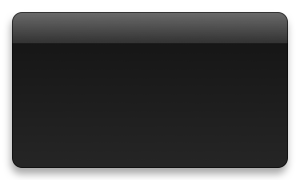
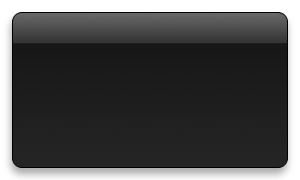
Minor comment updates and UI outline fix

Changed region(s): [[0.06, 0.0556, 0.96, 0.0833], [0.93, 0.1111, 0.96, 0.2222], [0.03, 0.1111, 0.06, 0.2222]]

diff --git a/Iconifer.dcproj/project/widget.wdgt/main.html b/Iconifer.dcproj/project/widget.wdgt/main.html
@@ -13,7 +13,7 @@
 </head>
 <body onload="load();" apple-part="com.apple.Dashcode.part.StackLayout">
     <div id="front">
-        <img id="frontImg" src="Parts/Images/front.png" alt="" apple-locked="true" apple-part="com.apple.Dashcode.part.frontimage" apple-style="image-theme: 0; image-shape: 3; image-opacity: 1.00; image-top-color: 0.150000006,0.150000006,0.150000006,1; image-bottom-color: 0.6,0.6,0.6,1; image-radius: 10,10,10,10; image-border: 1; image-border-color: 0,0,0,0.5; image-border-width: 1; shine-on: 1; shine-strength: 0.10; shine-alpha-level: 1.00; shine-height: 0.80; glass-arc-height: 0.00; embossed-on: 0; embossed-depth: 2; embossed-shadow: 0.5; embossed-highlight: 50; shadow-include-shadow: 1; shadow-offset: -1.00,-6.00; shadow-color: 0,0,0,0.3333;">
+        <img id="frontImg" src="Parts/Images/front.png" alt="" apple-locked="true" apple-part="com.apple.Dashcode.part.frontimage" apple-style="image-theme: 0; image-shape: 3; image-opacity: 1.00; image-top-color: 0.150000006,0.150000006,0.150000006,1; image-bottom-color: 0.6,0.6,0.6,1; image-radius: 10,10,10,10; image-border: 1; image-border-color: 0,0,0,1; image-border-width: 1; shine-on: 1; shine-strength: 0.10; shine-alpha-level: 1.00; shine-height: 0.80; glass-arc-height: 0.00; embossed-on: 0; embossed-depth: 2; embossed-shadow: 0.5; embossed-highlight: 50; shadow-include-shadow: 1; shadow-offset: -1.00,-6.00; shadow-color: 0,0,0,0.3333;">
         <div apple-part="com.apple.Dashcode.part.StackLayout" id="stack"><div id="main" apple-part-locked="true">
                 <div apple-part="com.apple.Dashcode.part.box" id="input" ondrop="dragDrop(event)" ondragover="dragOver(event)" ondragenter="dragEnter(event)">
                     <div apple-part="com.apple.Dashcode.part.text" class="apple-text apple-no-children" apple-default-image-visibility="hidden" apple-text-overflow="ellipsis" id="drop"></div>

diff --git a/Iconifer.dcproj/project/widget.wdgt/main.js b/Iconifer.dcproj/project/widget.wdgt/main.js
@@ -195,25 +195,21 @@ function updateType(event) {
 
 function updateFeedback(event) {
 	switch (prefType) {
-		case 0:
+		case 0:	//	iOS (app store + devices)
 			document.getElementById("feedback").innerHTML = "PNG files: 512, 114, 72, 57";
 			break;
-		case 1:
+		case 1:	//	Mac (ICNS format)
 			document.getElementById("feedback").innerHTML = "ICNS file: 512, 256, 128, 32, 16";
 			break;
-		case 2:
+		case 2:	//	Windows (ICO format)
 			document.getElementById("feedback").innerHTML = "ICO file: 256, 48, 32, 24, 16";
 			break;
-		case 3:
+		case 3:	//	Desktop (Mac + Windows)
 			document.getElementById("feedback").innerHTML = "ICNS, ICO";
 			break;
-		default:
+		default://	All the icons
 			document.getElementById("feedback").innerHTML = "PNG, ICNS, ICO";
 		}
-//	iOS (app store + devices)
-//	Mac (ICNS format)
-//	Windows (ICO format)
-//	Desktop (Mac + Windows)
 }
 
 function updateLoc(event) {

diff --git a/Iconifer.wdgt/main.js b/Iconifer.wdgt/main.js
@@ -195,25 +195,21 @@ function updateType(event) {
 
 function updateFeedback(event) {
 	switch (prefType) {
-		case 0:
+		case 0:	//	iOS (app store + devices)
 			document.getElementById("feedback").innerHTML = "PNG files: 512, 114, 72, 57";
 			break;
-		case 1:
+		case 1:	//	Mac (ICNS format)
 			document.getElementById("feedback").innerHTML = "ICNS file: 512, 256, 128, 32, 16";
 			break;
-		case 2:
+		case 2:	//	Windows (ICO format)
 			document.getElementById("feedback").innerHTML = "ICO file: 256, 48, 32, 24, 16";
 			break;
-		case 3:
+		case 3:	//	Desktop (Mac + Windows)
 			document.getElementById("feedback").innerHTML = "ICNS, ICO";
 			break;
-		default:
+		default://	All the icons
 			document.getElementById("feedback").innerHTML = "PNG, ICNS, ICO";
 		}
-//	iOS (app store + devices)
-//	Mac (ICNS format)
-//	Windows (ICO format)
-//	Desktop (Mac + Windows)
 }
 
 function updateLoc(event) {
